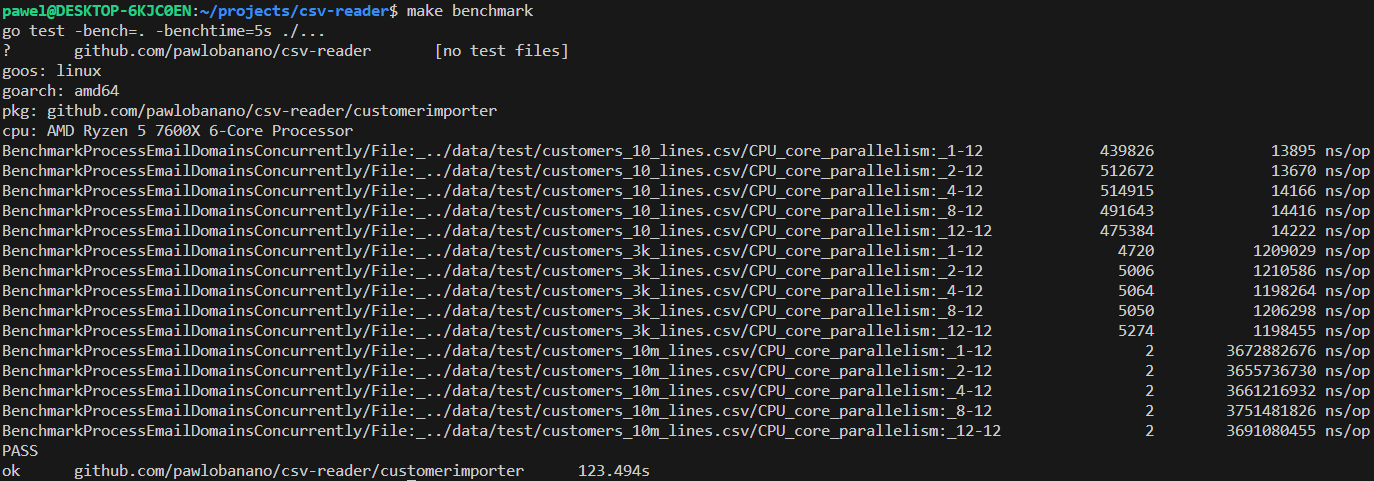
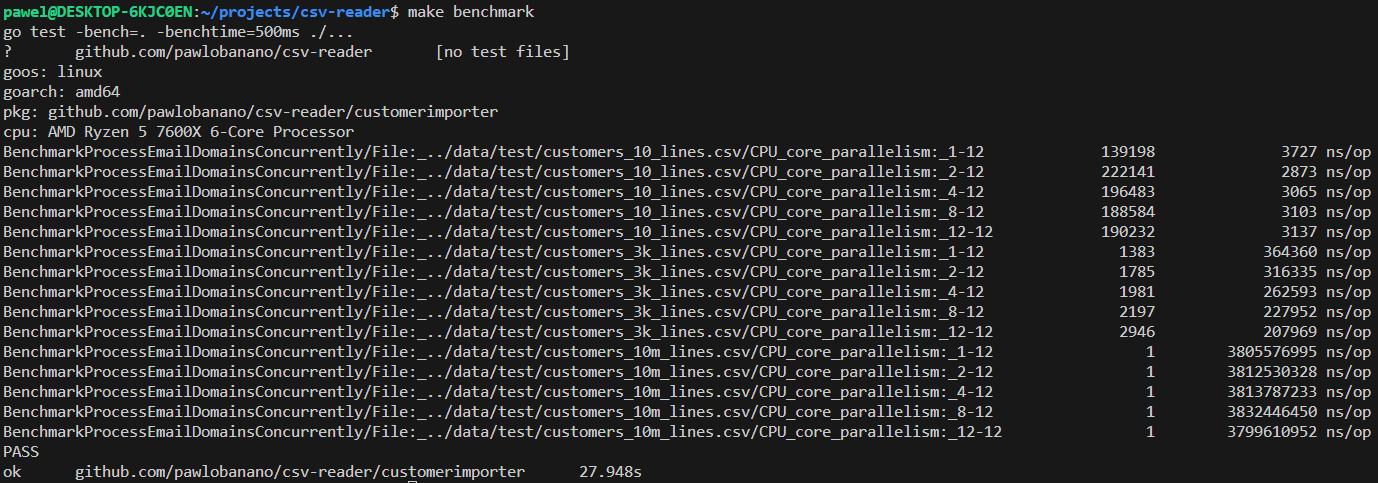
fix: run benchmark for func processEmailDomainsConcurrently in parallel
docs: replace old benchmark results with new screenshots

diff --git a/customerimporter/customerimporter_benchmark_test.go b/customerimporter/customerimporter_benchmark_test.go
@@ -22,23 +22,26 @@ func BenchmarkProcessEmailDomainsConcurrently(b *testing.B) {
 	for _, filePath := range filePaths {
 		b.Run(fmt.Sprintf("File: %s", filePath), func(b *testing.B) {
 			for _, parallelism := range []int{1, 2, 4, 8, 12} {
-				b.SetParallelism(parallelism)
-
 				b.Run(fmt.Sprintf("CPU core parallelism: %d", parallelism), func(b *testing.B) {
-					for i := 0; i < b.N; i++ {
-						file, err := os.Open(filePath)
-						if err != nil {
-							b.Fatal(err)
-						}
-						defer file.Close()
+					b.SetParallelism(parallelism)
+					b.ResetTimer()
 
-						reader, err := createCSVfileReader(log, config, file)
-						if err != nil {
-							b.Fatal(err)
-						}
+					b.RunParallel(func(pb *testing.PB) {
+						for pb.Next() {
+							file, err := os.Open(filePath)
+							if err != nil {
+								b.Fatal(err)
+							}
+							defer file.Close()
 
-						_ = processEmailDomainsConcurrently(log, config, reader)
-					}
+							reader, err := createCSVfileReader(log, config, file)
+							if err != nil {
+								b.Fatal(err)
+							}
+
+							_ = processEmailDomainsConcurrently(log, config, reader)
+						}
+					})
 				})
 			}
 		})
